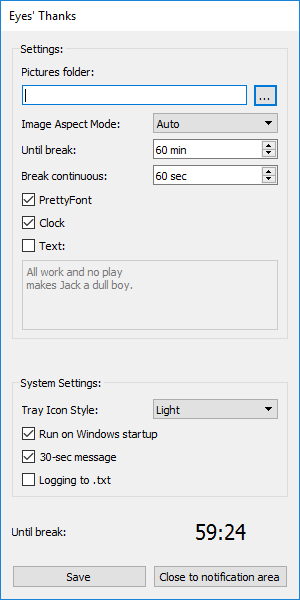
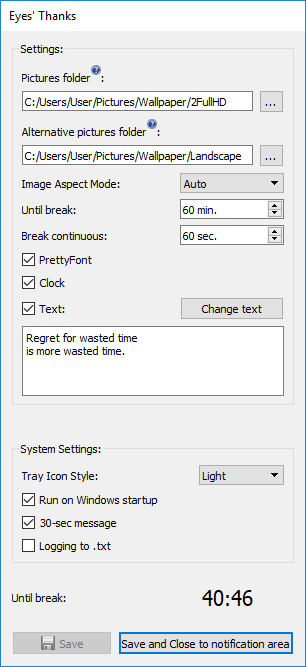
Eyes' Thanks 1.1.0

diff --git a/_collection/eyes-thanks.md b/_collection/eyes-thanks.md
@@ -4,7 +4,7 @@ title: "Eyes' Thanks"
 
 post_on_sidebar: true
 
-date: 2017-02-16
+date: 2017-06-05
 tag:
   - qt
   - С++
@@ -14,7 +14,7 @@ category:
 
 sidebar: true
 
-version: 1.0.0
+version: 1.1.0
 
 
 
@@ -50,10 +50,13 @@ It supports **multiple monitors system** and wide image for all monitors.
 ### Download Eyes' Thanks v{{page.version}} for Windows 7–10 (x86, portable) — [.7z](https://github.com/yalov/eyes-thanks/releases/download/{{page.version}}/EyesThanks_v{{page.version}}.7z)
 
 <br>
-For English version just remove *languages/* and *setting.ini* from app folder.
-Also you can use `q` and `escape` hotkeys for finish your rest break, and `delete` — for delete active image from your images folder.
+#### tips:
 
-Middle click to notification area icon — pause timer.
+* You can use `esc` hotkeys for finish your rest break, and `delete` — for delete  displayed image from your images folder.
+* Middle click to notification area icon — pause timer.
+* Use “alternative image folder”, if you have two different-ratio sets of monitors.  
+  *(For example if sometimes you disconnect your FullHD notebook from your FullHD monitor, put 2FHD (3860×1080) pictures to “pictures folder” and FullHD (1920×1080) pictures to “alternative pictures folder”).  
+So, connect laptop to monitor — app use 2FHD folder, laptop by itself — app use FHD folder.*
 
 Screenshots:
 

diff --git a/_posts/2017-02-15-qmake-deployment.md b/_posts/2017-02-15-qmake-deployment.md
@@ -90,6 +90,14 @@ QMAKE_POST_LINK += $$RETURN $$QMAKE_COPY $$quote($$OPENSSLFILES) $$quote($$DDIR)
 Ещё можно использовать `?`:
   * `?bin?.*` — файл с любым расширением, содержащий `bin`.
 
+А можно всю папку, но всё равно её нужно сначала создать:
+
+``` qmake
+DIRFROM = $$shell_path($$PWD/shifts)
+DIRTO = $$shell_path($$DESTDIR/shifts)
+QMAKE_POST_LINK += $$RETURN $$sprintf($$QMAKE_MKDIR_CMD, $$DIRTO)
+QMAKE_POST_LINK += $$RETURN $$QMAKE_COPY_DIR $$quote($$DIRFROM) $$quote($$DIRTO)
+```
 
 Не забываем  возможности создавать функции, и потом их вызывать:
 
@@ -130,7 +138,7 @@ project\
 Вот она:
 
 ```
-CONFIG-=debug_and_release
+CONFIG -= debug_and_release
 ```
 
 Аккуратно разложить файлы в `build-Qt_x_y_0_32bit_Debug` и `build-Qt_x_y_0_32bit_Release` можно так:
